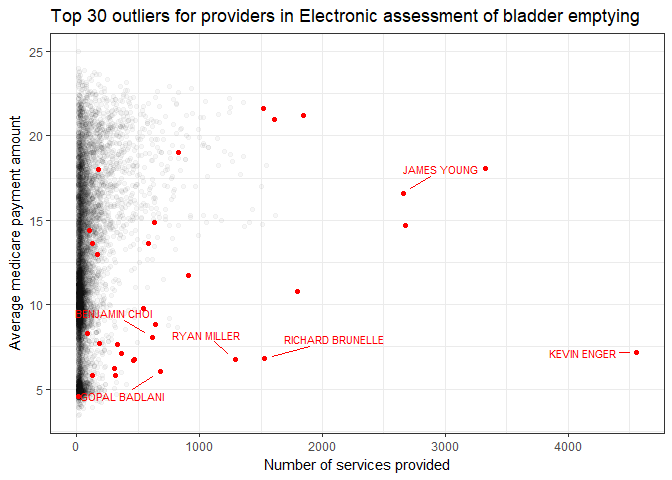
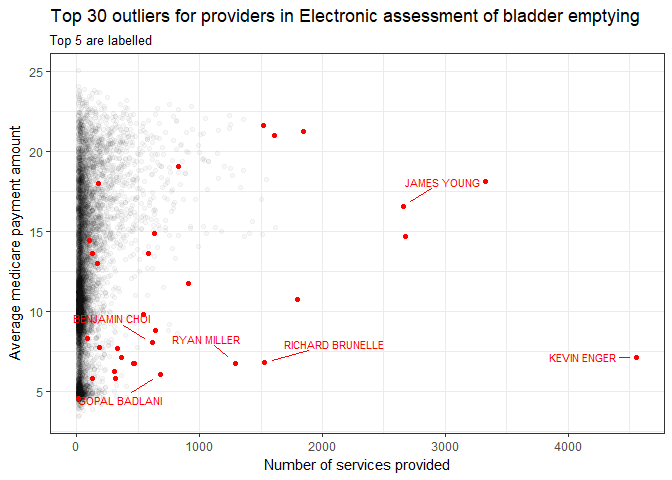
Streamlined

diff --git a/medicare_detection/medicare_anomaly_detection.md b/medicare_detection/medicare_anomaly_detection.md
@@ -13,7 +13,7 @@ Chris Oh
     -   [Outlier score computation](#outlier-score-computation)
     -   [Visualizing the results](#visualizing-the-results)
 -   [Possible Application](#possible-application)
--   [Challenges](#challenges)
+-   [Challenges / Ideas](#challenges-ideas)
     -   [Model parameters](#model-parameters)
     -   [Defining outliers](#defining-outliers)
 
@@ -28,9 +28,13 @@ Motivation
 
 As a part of a series called *Medicare Unmasked*, which won Pulitzer Prize for Investigative Reportings, the journalists at Wall Stree Journal (WSJ) explored unusual doctor billings [*Taxpayers Face Big Tab For Unusual Doctor Billings*](http://www.pulitzer.org/files/2015/investigative-reporting/wsjmedicare/01wsjmedicare2015.pdf), 2014 Jun 10.
 
-As part of a project for Stanford's Data Challenge Lab, I previously explored unusual billings by picking out key variables and creating new ones from which subsetting criteria were created manually.
+As a part of a project for Stanford's Data Challenge Lab, I previously explored unusual billings by picking out key variables and creating new ones from which subsetting criteria were created manually.
 
-The goal of this project is to use unsuprvised anomaly detection algorithms to expedite the process without relying on arbitrary thresholds. This would also have an advantage in terms of scalability.
+The goal of this project is to use unsuprvised anomaly detection algorithms to:
+
+-   Expedite the process without relying on arbitrary thresholds.
+-   Better detect higher-dimensional outliers (2D and above).
+-   Establishing a standard that is highly scalable.
 
 Data
 ----
@@ -47,7 +51,7 @@ The billing data is publicly available from the US government agency that overse
 
 The raw detailed data is available in a .txt format and contains more than 9 million observations.
 
-To converting the raw data into a workable .rds format, an R script was runparately.
+To convert the raw data into a workable .rds format, an R script was run separately.
 
 The processed file is read in as `medicare`.
 
@@ -62,23 +66,23 @@ This part of the section is masked from public viewing for confidentiality purpo
 Below are some of the steps taken:
 
 -   Check for NA's and investigate the reasons for the missing values.
--   Check for duplicates
--   Check for distribution of variables (credentials, provider types)
+-   Check for duplicates.
+-   Check for distribution of variables (credentials, provider types).
 
 Local Density-Based Outlier Detection
 -------------------------------------
 
 Local density-based outlier detection (`ldbod`) uses the k-nearest-neighbor approach to computing the outlier scores for given observations.
 
-The `ldbod` package allows the user to accomodate for different sizes of `k` as well as different density-based methods (by default, all 4 available methods are used).
+The `ldbod` package allows the user to accomodate for different sizes of `k` as well as different density-based methods (by default, all 4 available methods -- LOF, LDF, RKOF, LPDF -- are used).
 
-It also allows for a random subsampling of the input data.
+It also allows for a random subsampling of the input data, which in this case, was deemed unneccesary given the size of each `HCPCS_CODE` (procedure / medication) group as we will see in a later section.
 
 ### Data prepartion
 
-First, we have to subset the data by numeric variables and those without any missing values.
+We have to subset the data by numeric variables and those without any missing values to run the detection algorithm.
 
-Then, I pick out only the relevant variables over which outlier scores should be computed.
+Among these, I pick out the relevant variables over which outlier scores should be computed.
 
 ``` r
 medicare_num <-
@@ -101,7 +105,7 @@ medicare_num %>%
 | 1003000126 | 99222       |              115|                112|                   115|                            199|                         108.1157|
 | 1003000126 | 99223       |               93|                 88|                    93|                            291|                         158.8700|
 
-What we need to do now is to get a nested dataset of `medicare_num` by `HCPCS_CODE` so that we can run the outlier score calculation algorithm within each procedure / product.
+Now, we need a nested dataset of `medicare_num` by `HCPCS_CODE` so that we can run the outlier score calculation algorithm within each `HCPCS_CODE`.
 
 Before doing so, let us look at the distribution of the number of data points in each `HCPCS_CODE`.
 
@@ -117,7 +121,7 @@ medicare_num %>%
 
 ![](medicare_anomaly_detection_files/figure-markdown_github/unnamed-chunk-5-1.png)
 
-As can be seen, there are many products / services that have less than 100 instances in the dataset.
+Many products / services have less than 100 instances in the dataset.
 
 These in themselves are outliers and would certainly warrant a closer inspection.
 
@@ -126,7 +130,7 @@ However, they are deemed unfit for the type of outier detection we are after her
 ``` r
 medicare_num %>% 
   group_by(HCPCS_CODE) %>%
-  filter(n() > 50) %>% 
+  filter(n() > 100) %>% 
   head() %>%
   knitr::kable()
 ```
@@ -142,7 +146,7 @@ medicare_num %>%
 
 Now, we can proceed to nest the dataset by `HCPCS_CODE`.
 
-\*Note: Below is a sample workflow that could be eventually applied to the entire dataset. Due to a large memeory requirement, the full job cannot be run on a local machine. This issue can be overcome by submitting a batch request to SLURM (through Stanford, in my case, where a script can be run on a machine with much higher memory capacity).
+\*Note: Below is a sample workflow that could be eventually applied to the entire dataset. Due to a large memeory requirement, the full job cannot be run on a local machine. This issue can be overcome by submitting a batch request to SLURM (through Stanford, in my case, where a script can be run on a machine with much higher memory capacity). To apply the algorithm to the entire dataset, one can simply take out the `filter` line.
 
 Below, I randomly picked two different `HCPCS_CODE`s to illustrate how the outlier scores could be applied to each nested dataset.
 
@@ -158,11 +162,11 @@ medi_test <-
 
 Score calculation steps:
 
--   Apply `ldbod` to the nested dataset for each `HCPCS_CODE`
--   The `k` parameter passed to `ldbod` should depend on the number of datapoints in each of these nested datasets.
+-   Apply `ldbod` to the nested dataset for each `HCPCS_CODE`.
+-   The `k` parameter passed to `ldbod` should be adjusted based on the number of datapoints in each of these nested datasets.
 -   `NPI` should not be passed on to the `ldbod`.
--   All 4 available methods (LOF, LDF, RKOF, LPDF) are used to comput the outlier scores (default).
--   The computed scores (a total of 9) are attached to the original nested datasets.
+-   All 4 available methods (LOF, LDF, RKOF, and LPDF) are used to comput the outlier scores (default).
+-   The a total of 9 different scores are computed and added to each original nested dataset.
 
 ``` r
 apply_ldbod <- function(df) {
@@ -190,8 +194,8 @@ medi_test <-
 
 The two most relevant variables for outlier detection are:
 
--   `LINE_SRVC_CNT` - for practitioners with excessively frequent treatments
--   `AVERAGE_SUBMITTED_CHRG_AMT` - for practioners who might be over-billing
+-   `LINE_SRVC_CNT` - for practitioners with excessively high number of treatments
+-   `AVERAGE_SUBMITTED_CHRG_AMT` - for practioners who might be over-billing for the treatment category compared to others
 
 The plots below show the top 30 outliers, 5 of which are labelled, as indicated by:
 
@@ -200,6 +204,8 @@ The plots below show the top 30 outliers, 5 of which are labelled, as indicated 
 
 ``` r
 # Get all the variables in the original dataset
+# Not that each row is distinct for each practitioner (NPI)
+# / procedure (HCPCS_CODE)
 medi_test <-
   medi_test %>% 
   unnest() %>% 
@@ -212,7 +218,19 @@ As can be seen, the algorithms seemed to have done a fairly good job of identify
 ``` r
 # Labelling for top outliers
 label_outlier <- function(f_name, l_o_name) {
+  # If an NPI belongs to an organization, the organization name will be returned.
+  # If an NPI belongs to an individual, the full name will be returned.
   ifelse(is.na(f_name), l_o_name, str_c(f_name, " ", l_o_name))
+}
+
+# Get the top entries based on a given metric for a particular
+# subset of a dataset
+get_top_n <- function(df, filter_var, which, number, wght) {
+  filter_var <- enquo(filter_var)
+  wght <- enquo(wght)
+  df %>% 
+    filter(UQ(filter_var) %in% which) %>%
+    top_n(n = number, wt = !! wght)
 }
 
 medi_test %>% 
@@ -221,10 +239,7 @@ medi_test %>%
   geom_point(alpha = .03) +
   geom_point(
     color = "red",
-    data = 
-      medi_test %>% 
-      filter(HCPCS_CODE %in% "51741") %>%
-      top_n(-30, wt = lpde)
+    data = medi_test %>% get_top_n(HCPCS_CODE, "51741", -30, lpde)
   ) +
   ggrepel::geom_text_repel(
     aes(
@@ -235,10 +250,7 @@ medi_test %>%
     size = 3,
     point.padding = .8,
     segment.size = .3,
-    data = 
-      medi_test %>% 
-      filter(HCPCS_CODE %in% "51741") %>%
-      top_n(-5, wt = lpde)
+    data = medi_test %>% get_top_n(HCPCS_CODE, "51741", -5, lpde)
   ) +
   labs(
     title =
@@ -248,6 +260,7 @@ medi_test %>%
               pull(HCPCS_DESCRIPTION) %>% 
               unique()
             ),
+    subtitle = "Top 5 are labelled",
     x = "Number of services provided",
     y = "Average medicare payment amount"
   ) +
@@ -263,21 +276,7 @@ medi_test %>%
   geom_point(alpha = .03) +
   geom_point(
     color = "red",
-    data = 
-      medi_test %>% 
-      filter(HCPCS_CODE %in% "10060") %>%
-      top_n(30, wt = rkof)
-  ) +
-  labs(
-    title =
-      str_c("Top 30 outliers for providers in ", 
-             medi_test %>% 
-              filter(HCPCS_CODE %in% "10060") %>%
-              pull(HCPCS_DESCRIPTION) %>% 
-              unique()
-            ),
-    x = "Number of services provided",
-    y = "Average medicare payment amount"
+    data = medi_test %>% get_top_n(HCPCS_CODE, "10060", 30, rkof)
   ) +
   ggrepel::geom_text_repel(
     aes(
@@ -288,10 +287,7 @@ medi_test %>%
     size = 3,
     point.padding = .8,
     segment.size = .3,
-    data = 
-      medi_test %>% 
-      filter(HCPCS_CODE %in% "10060") %>%
-      top_n(5, wt = rkof)
+    data = medi_test %>% get_top_n(HCPCS_CODE, "10060", 5, rkof)
   ) +
   labs(
     title =
@@ -301,6 +297,7 @@ medi_test %>%
               pull(HCPCS_DESCRIPTION) %>% 
               unique()
             ),
+    subtitle = "Top 5 are labelled",
     x = "Number of services provided",
     y = "Average medicare payment amount"
   ) +
@@ -318,8 +315,8 @@ Similarly, we can also build a classifier with the exisitng body of data when a 
 
 This can be achieved by computing the outlier scores based on the existing data then applying them on the new data points. `ldbod.ref` function can be employed for this purpose.
 
-Challenges
-----------
+Challenges / Ideas
+------------------
 
 ### Model parameters
 
@@ -338,3 +335,5 @@ For the purpose of fraud / abuse detection in the billings record, it might be a
 However, a record that is very low in terms of one variable might be very high in another.
 
 In this sense, it may be appropriate to filter out only the observations that have low numbers across all values before computing the outlier scores.
+
+For example, in this dataset, there is a varaible that denotes the average amount for each `HCPCS_CODE`, which could serve as a threshold for this purpose.

diff --git a/README.md b/README.md
@@ -20,3 +20,11 @@ Local density-based outlier scores - LOF, LDF, RKOF, LPDF
 
 -   Outlier detection on the current records.
 -   Building a classifier for future stream of billing records.
+
+### To Do
+
+-   Scale it up to the full dataset
+    -   Save the processed dataset to a separate file.
+    -   Write a script for the processing (use the existing code).
+    -   Write a batch script file to run on SLURM.
+    -   Submit the batch request (through Stanford Wheat - large memeory node).
